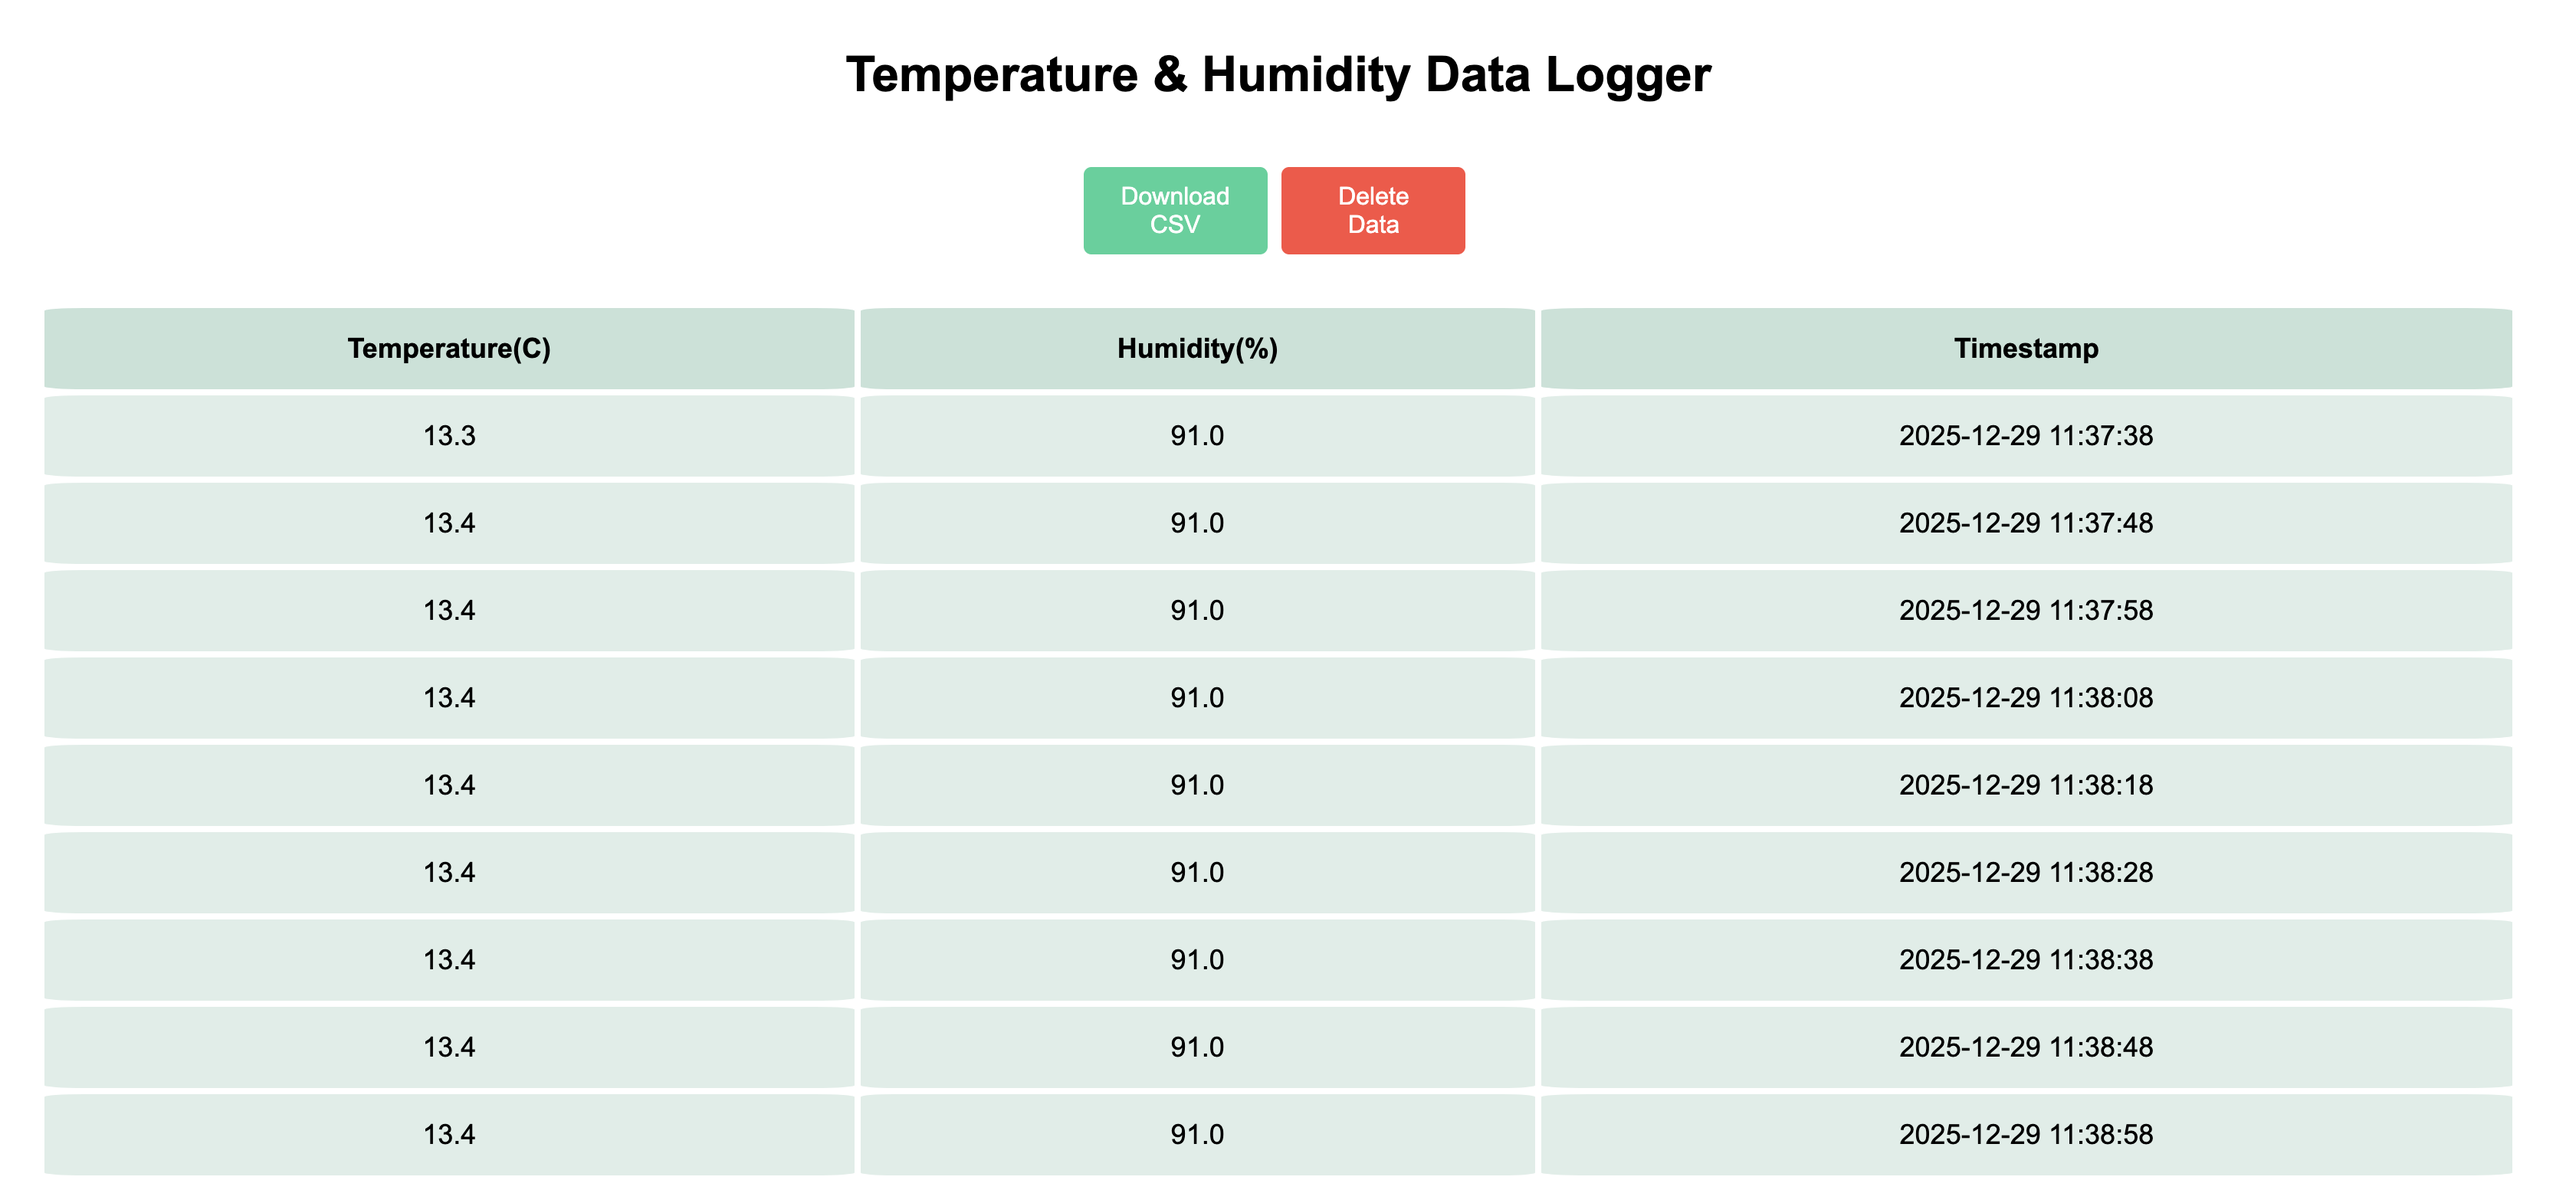
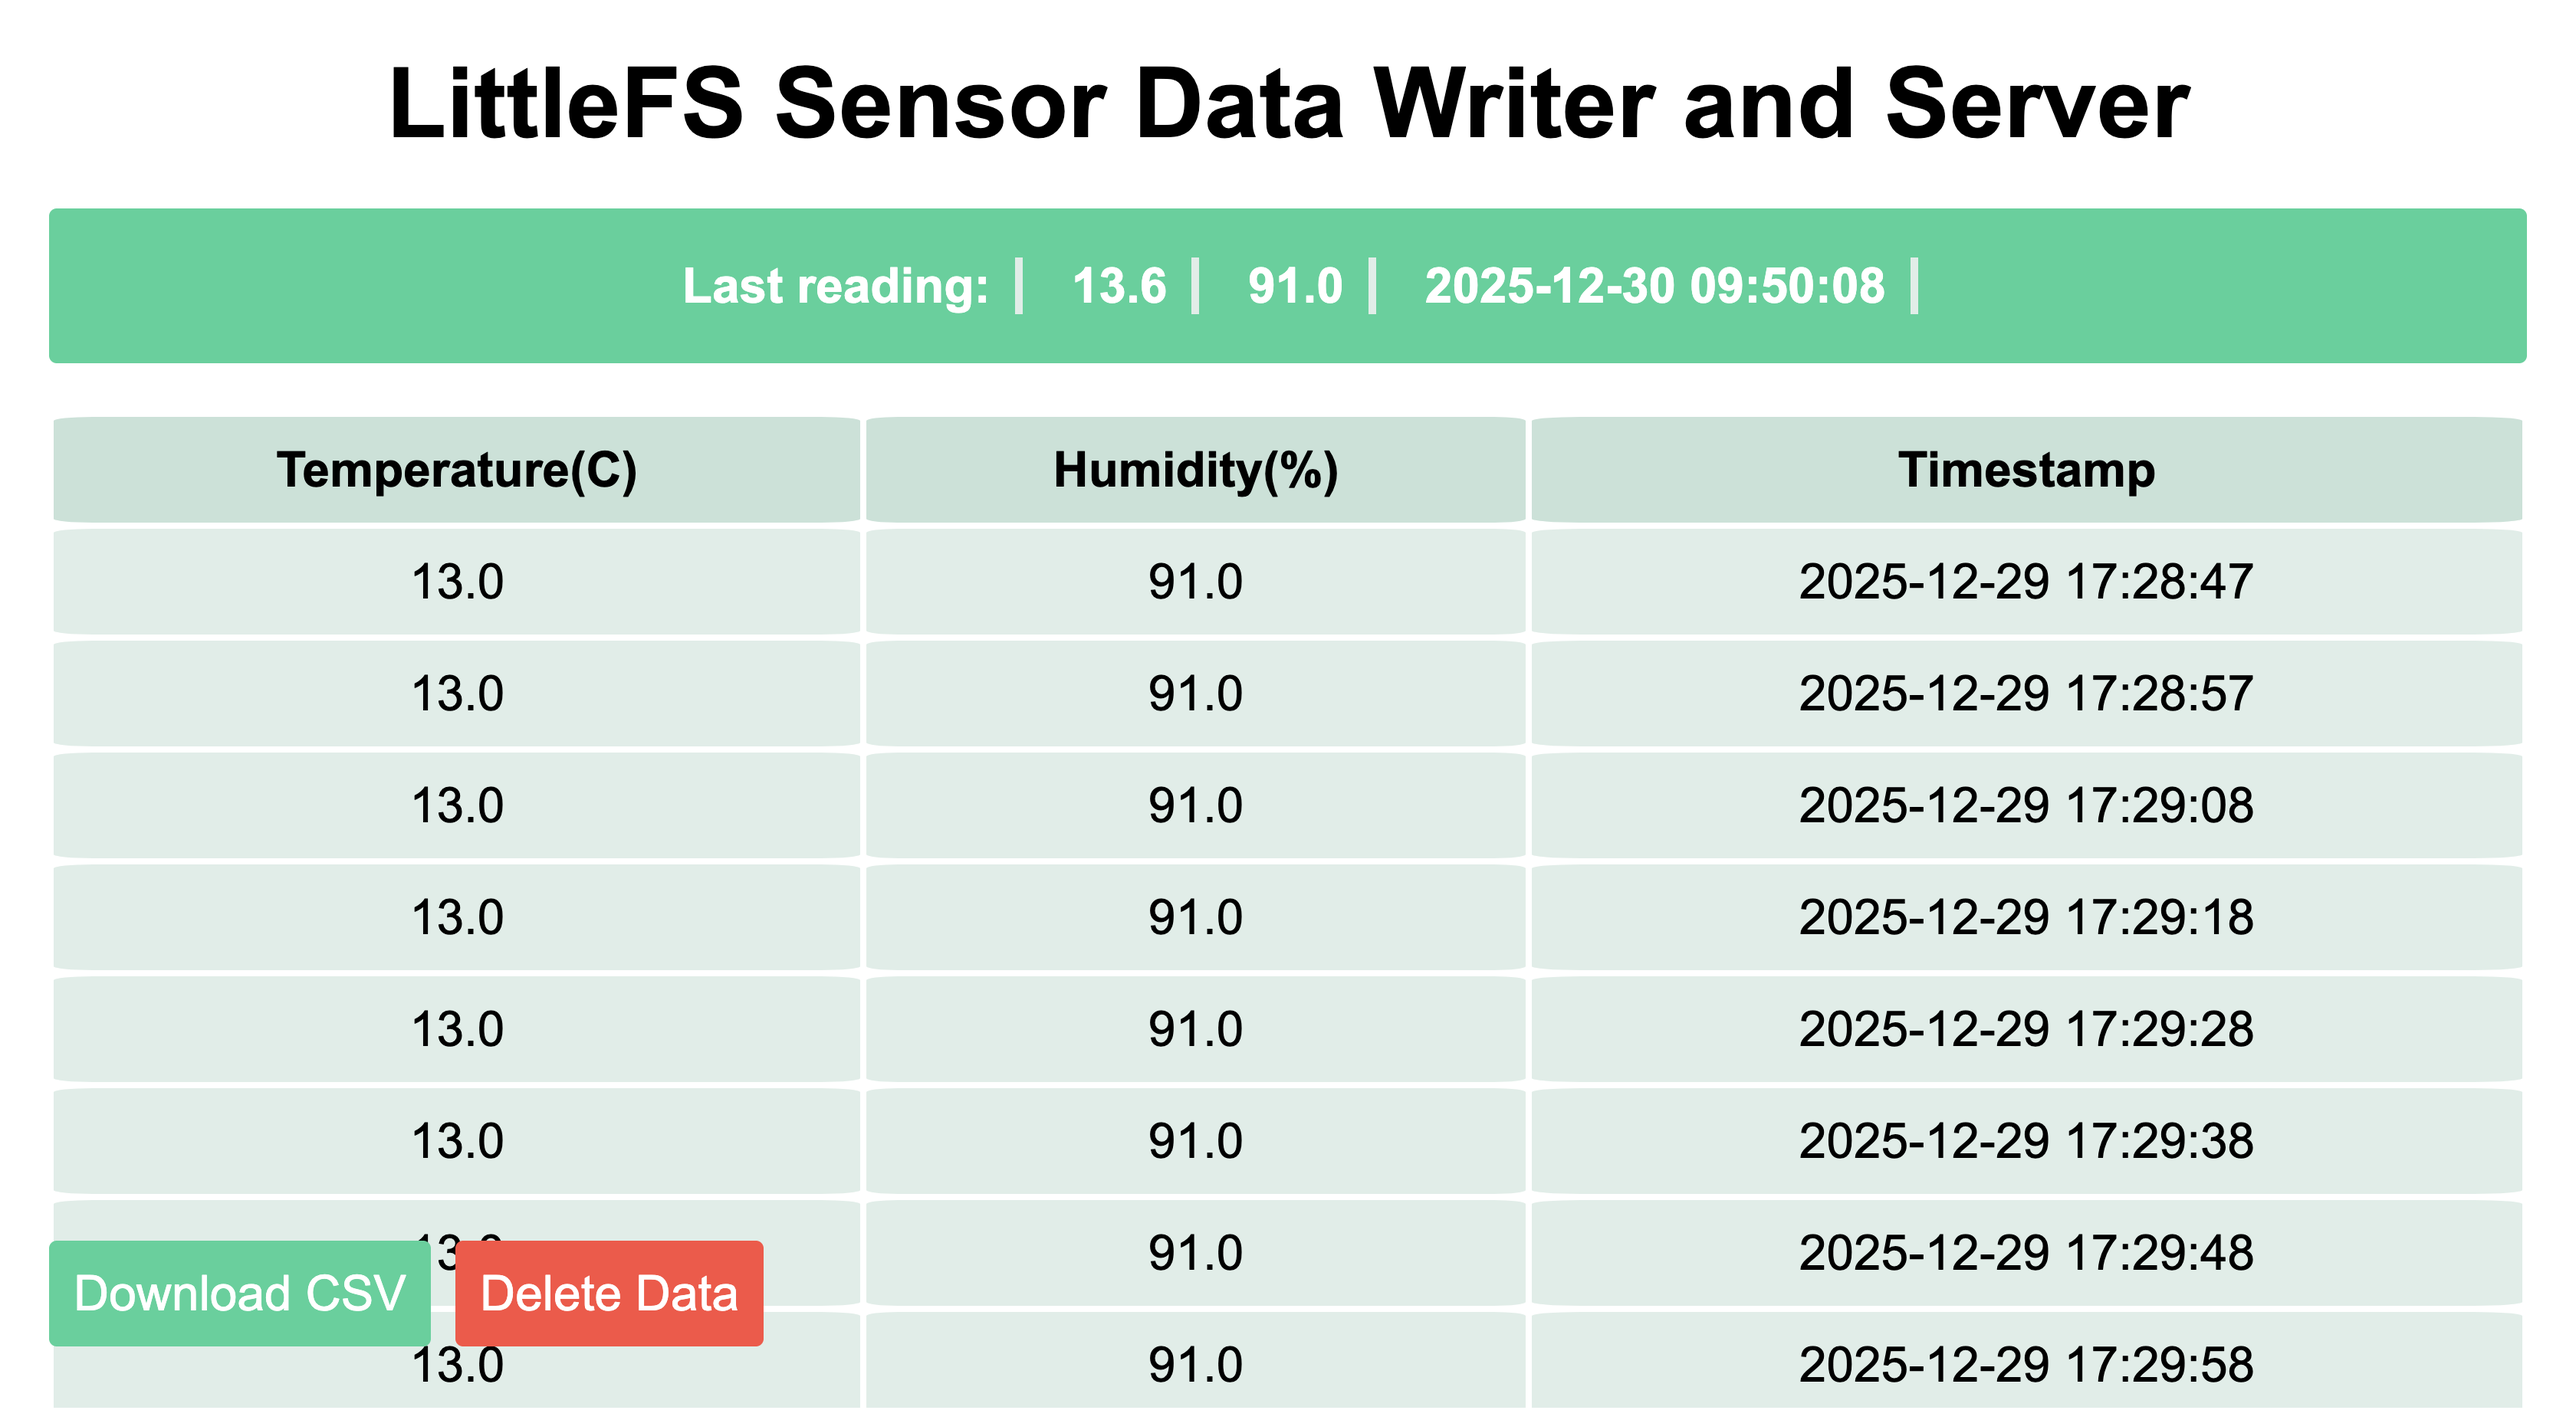
UI update and last reading section added

Changed region(s): [[0.0, 0.1247, 0.994, 0.9974], [0.1553, 0.0312, 0.8698, 0.0935]]

diff --git a/src/main.cpp b/src/main.cpp
@@ -72,19 +72,18 @@ void handleDashboard() {
                     display: flex;
                     flex-direction: column;
                     justify-content: center;
-                    font-family:Arial;
+                    font-size: xx-large;
+                    font-family: arial;
                     margin:2rem;
                     text-align: center;
                     gap: 2rem;
                 }
                 .button {
-                    display: inline-block;
-                    margin: 10px 5px 0 0;
-                    padding: 10px 20px;
+                    display: flex;
+                    padding: 1rem;
                     color: white;
                     text-decoration: none;
                     border-radius: 5px;
-                    width: 120px;
                 }
                 .download {
                     background: #34D399;
@@ -98,6 +97,9 @@ void handleDashboard() {
                 .danger:hover {
                     background: #e94337;
                 }
+                #csv-table {
+                    width: 100%;
+                }
                 #csv-table tr:first-child td {
                     font-weight: bold;
                     background-color: #c6e2d7;
@@ -107,19 +109,52 @@ void handleDashboard() {
                     padding: 1rem;
                     border: 1px solid white;
                     border-radius: 5%;
-                    font-size: large;
+                    font-size: xx-large;
+                }
+                .container {
+                    display: flex;
+                    gap: 1rem;
+                    justify-content: center;
+                    height: 70vh;
+                    overflow-y: scroll;
+                }
+                #lastValues {
+                    display: flex;
+                    justify-content: center;
+                    padding: 2rem;
+                    border-radius: 5px;
+                    gap: 1rem;
+                    background: #34D399;
+                    font-weight: bold;
+                    color: white;
+                }
+                #lastValues div {
+                    padding-inline: 1rem;
+                    border-right: 5px solid #deede7;
+                }
+                .actionButtons {
+                    display: flex;
+                    gap: 1rem;
+                    position: fixed;
+                    bottom: 3rem;
                 }
             </style>
         </head>
         <body>
             <h1>LittleFS Sensor Data Writer and Server</h1>
-            <div>
+
+            <div class="actionButtons">
                 <a class="button download" href='/download'>Download CSV</a>
                 <a class="button danger" id="delete" href='/delete'>Delete Data</a>
             </div>
-            <table id="csv-table">
-                
-            </table>
+
+            <div id="lastValues">
+                <div>Last reading: </div>
+            </div>
+
+            <div class="container">
+                <table id="csv-table"></table>
+            </div>
             <script>
                 // Wait for DOM to be ready
                 document.addEventListener('DOMContentLoaded', () => {
@@ -138,10 +173,21 @@ void handleDashboard() {
                     async function loadCSVData() {
                         const response = await fetch('/data');
                         const csvText = await response.text();
-                        
-                        console.log(csvText);
                         const rows = csvText.split('\n');
-                        console.log(rows.length);
+
+                        // Add last values
+                        const lastValuesContainer = document.getElementById("lastValues")
+                        lastValues = rows[rows.length - 2]; // Get last non-empty line
+                        lastValues = lastValues.split(',');
+
+                        lastValues.forEach(column => {
+                            if (column.length > 1) { // Skip empty lines
+                                const div = document.createElement('div');
+                                div.textContent = column;
+                            lastValuesContainer.appendChild(div);
+                            }
+                        });
+
                         const table = document.getElementById('csv-table');
                         table.innerHTML = ""; // Clear existing data
 
@@ -271,7 +317,7 @@ void loop() {
     static unsigned long lastReadTime = 0;
     unsigned long currentTime = millis();
     
-    if (currentTime - lastReadTime >= 10000) {  // 3 minutes
+    if (currentTime - lastReadTime >= 180000) {  // 3 minutes
         lastReadTime = currentTime;
         
         // Check if time is valid
